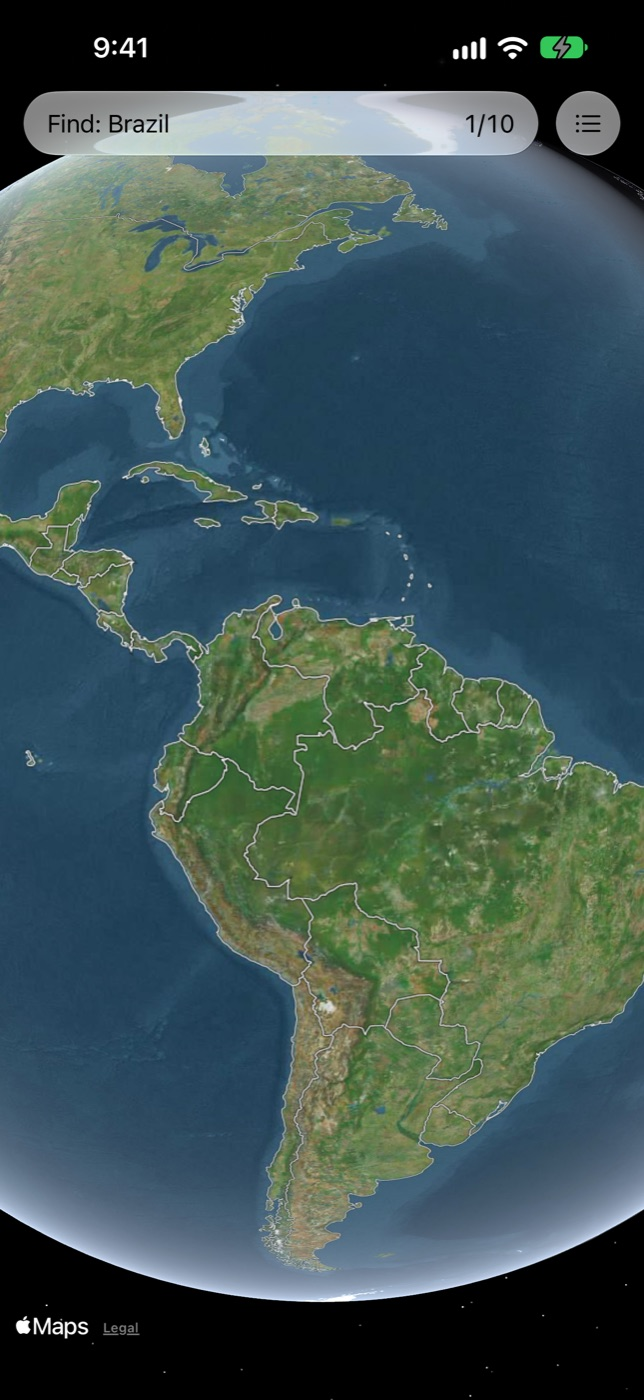
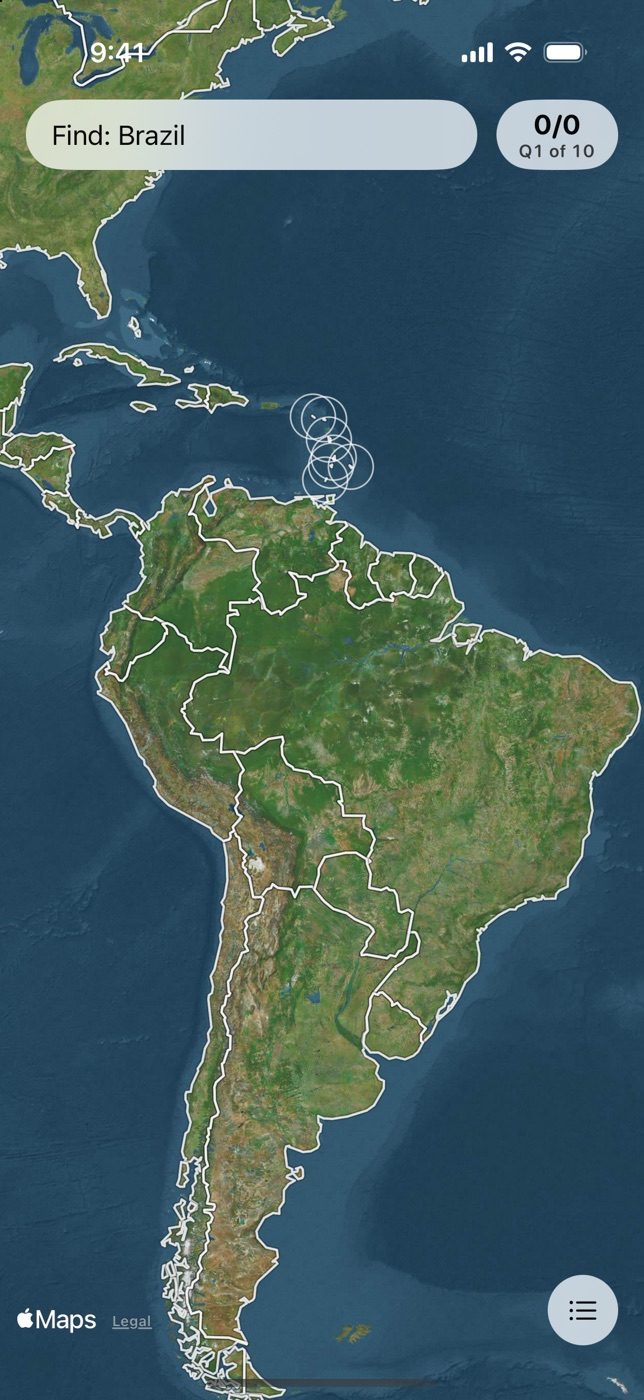
Retake Pinpoint screenshots with the flat map, new layout and daily chart

diff --git a/pinpoint/index.html b/pinpoint/index.html
@@ -88,7 +88,7 @@
             <figcaption>Study any map</figcaption>
           </figure>
           <figure>
-            <img src="/pinpoint/images/06-stats.jpg" alt="Quiz settings and stats for US states" loading="lazy">
+            <img src="/pinpoint/images/06-stats.jpg" alt="Daily accuracy chart and stats for US states" loading="lazy">
             <figcaption>Track your progress</figcaption>
           </figure>
         </div>
